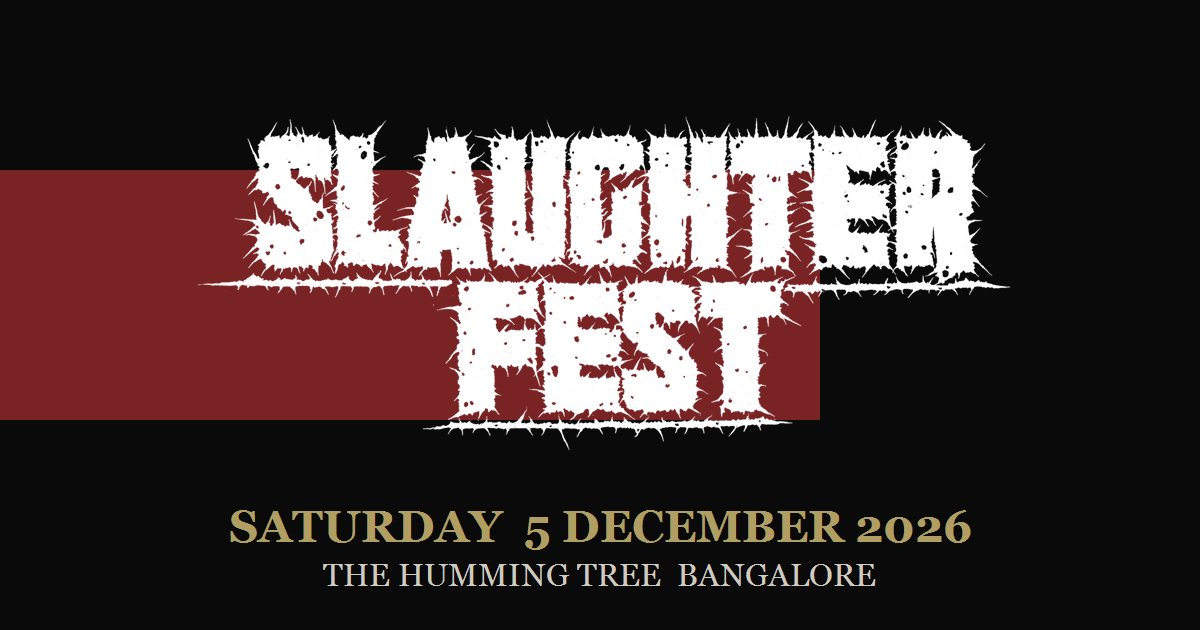
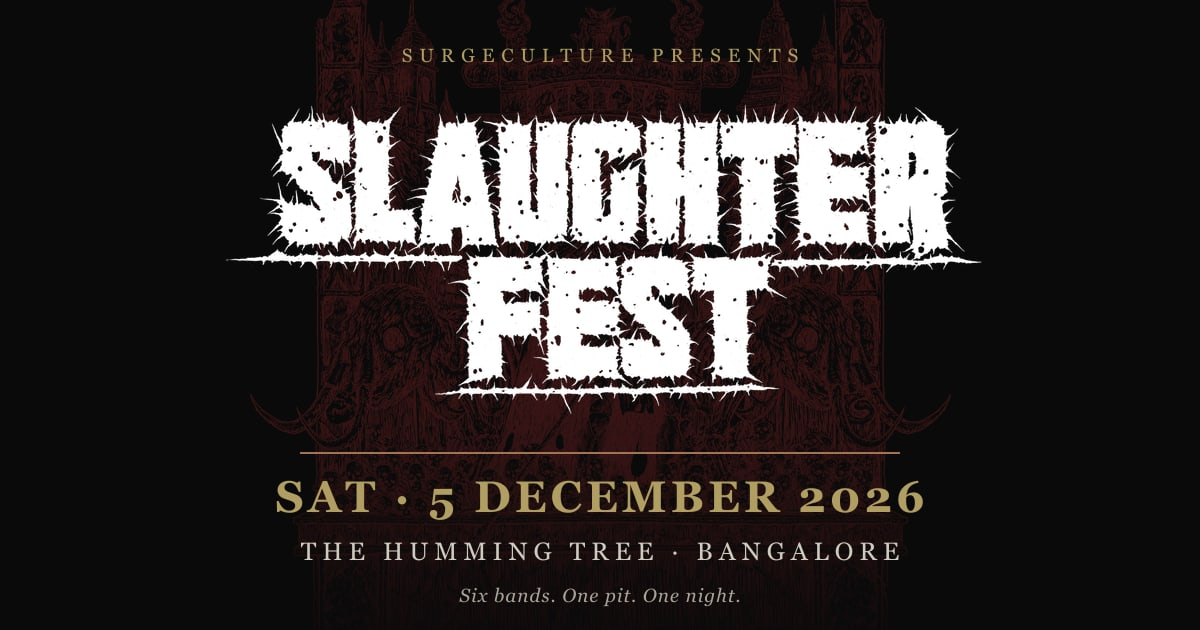
Catchier link previews: new share image, title and description
- og.jpg redrawn by the asset script: altar engraving behind the logo, date and venue
- shareTitle/shareDescription in site.json, plus og:url, site name, image size/alt and Twitter tags
- ?v=2 on the image URL so apps refetch it

diff --git a/README.md b/README.md
@@ -85,5 +85,5 @@ The raw partner and artist folders (`Partner Logos-*`, `Slaughterfest 2026 - Art
 - Confirm billing order and the details for Fallen Letters, Backrooms and Haiku Like Imagination.
 - A logo file for Astrit, and a clean venue logo if wanted.
 - Confirm permission to show the partner logos, and add partner links.
-- Add `site` URL, then check the social preview image (`public/assets/og.jpg`).
+- Link previews: the title and text are `shareTitle` / `shareDescription` in `site.json`; the picture is `public/assets/og.jpg`, drawn by `og()` in `tools/optimise-assets.mjs`. After redrawing it, bump `?v=` on `ogImage` in `Base.astro` so apps refetch it.
 - Convert photos to WebP/AVIF if page weight matters (currently about 4 MB total).
